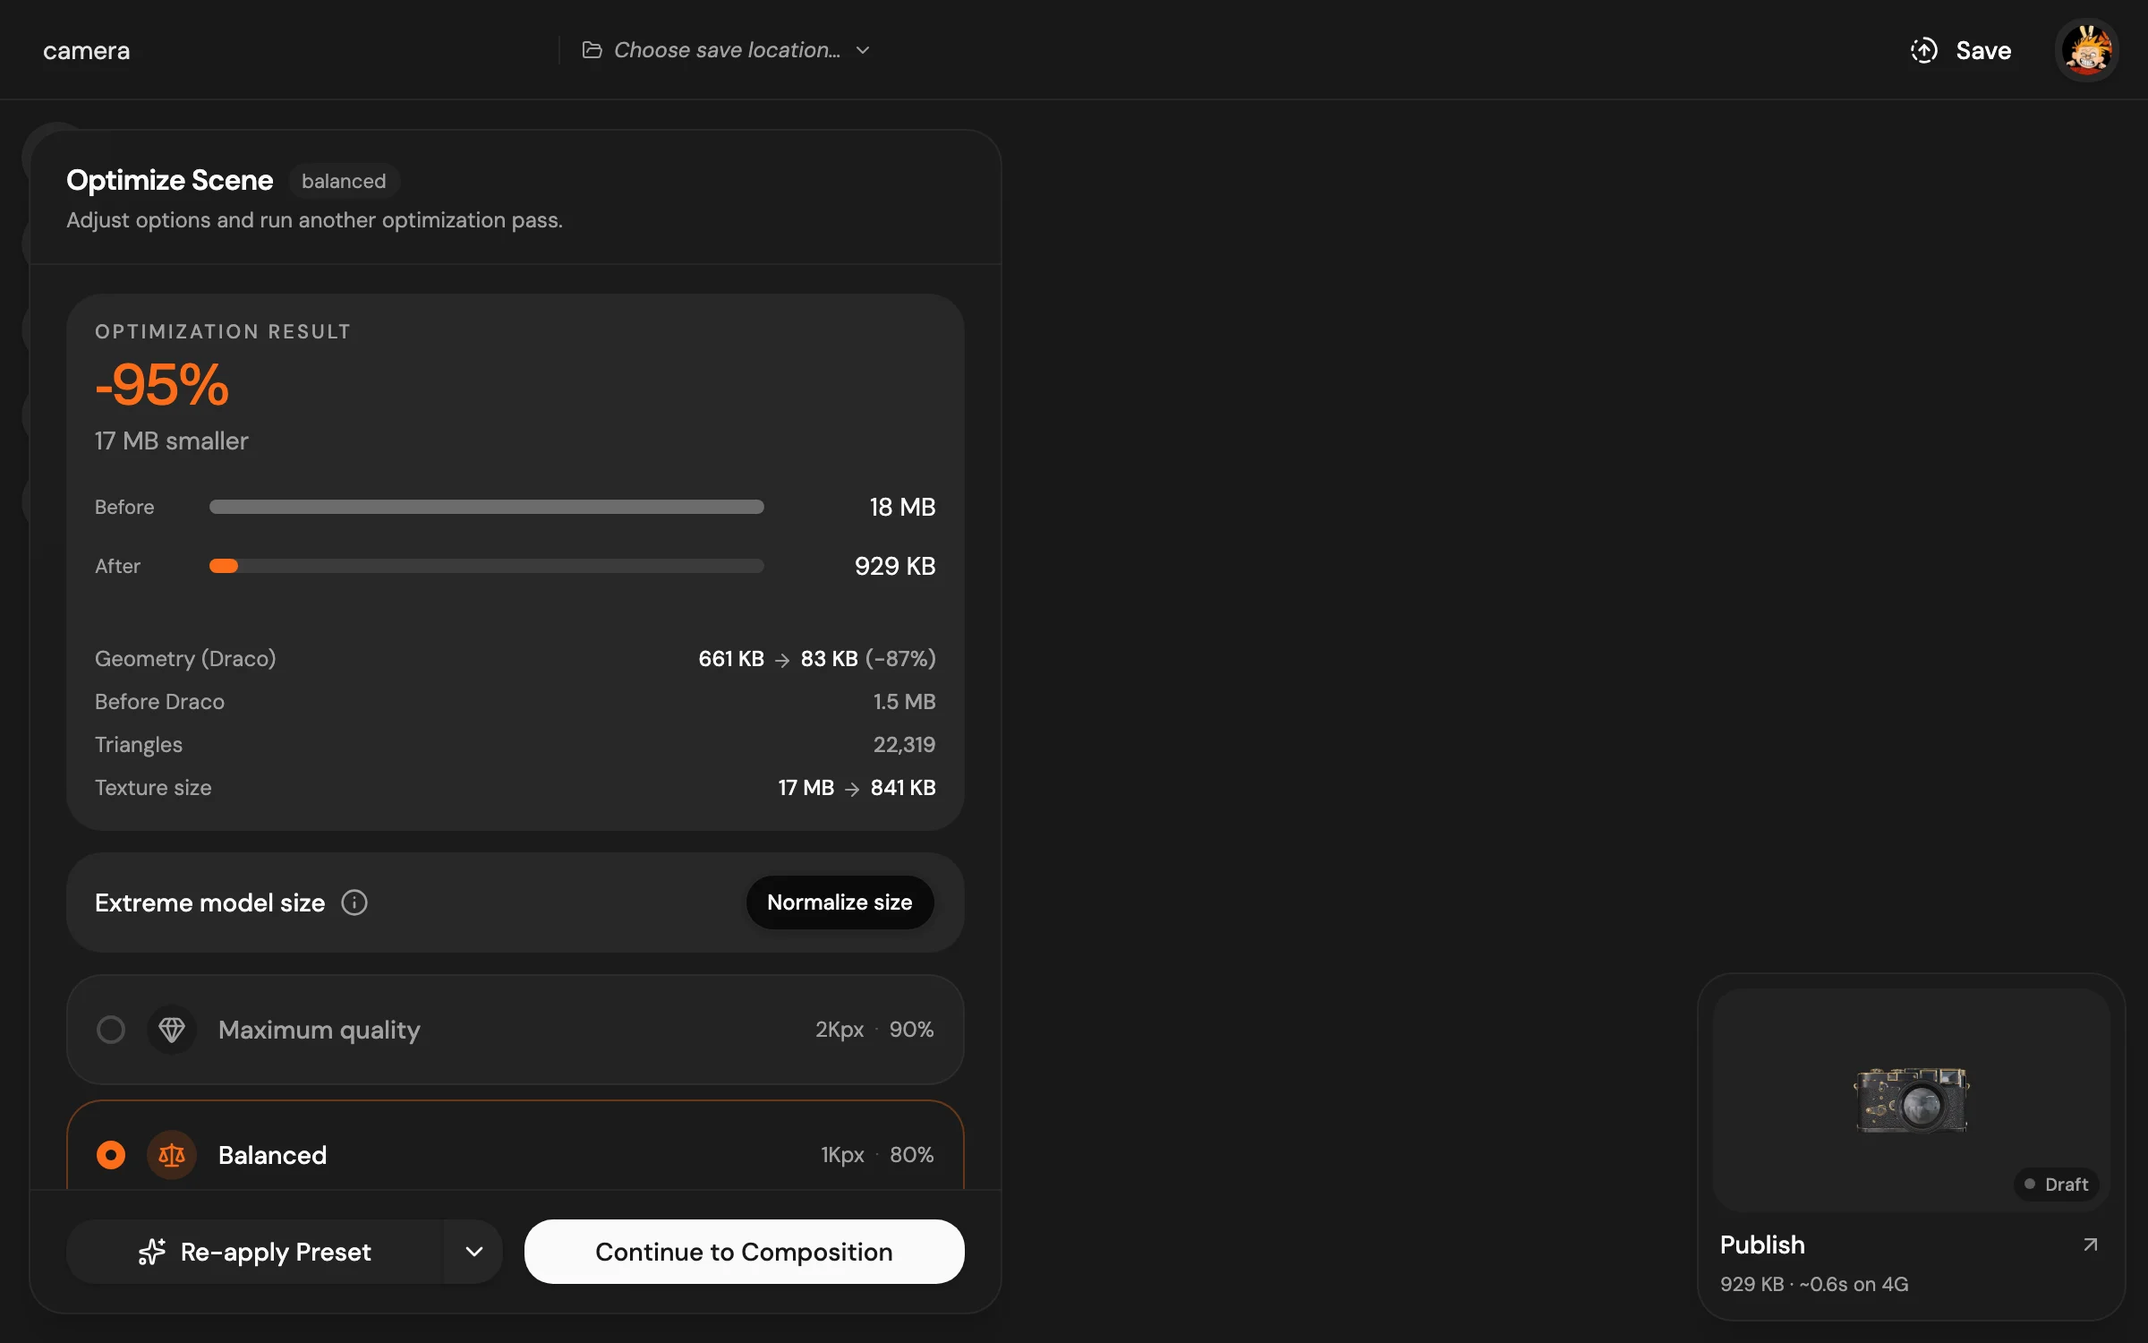
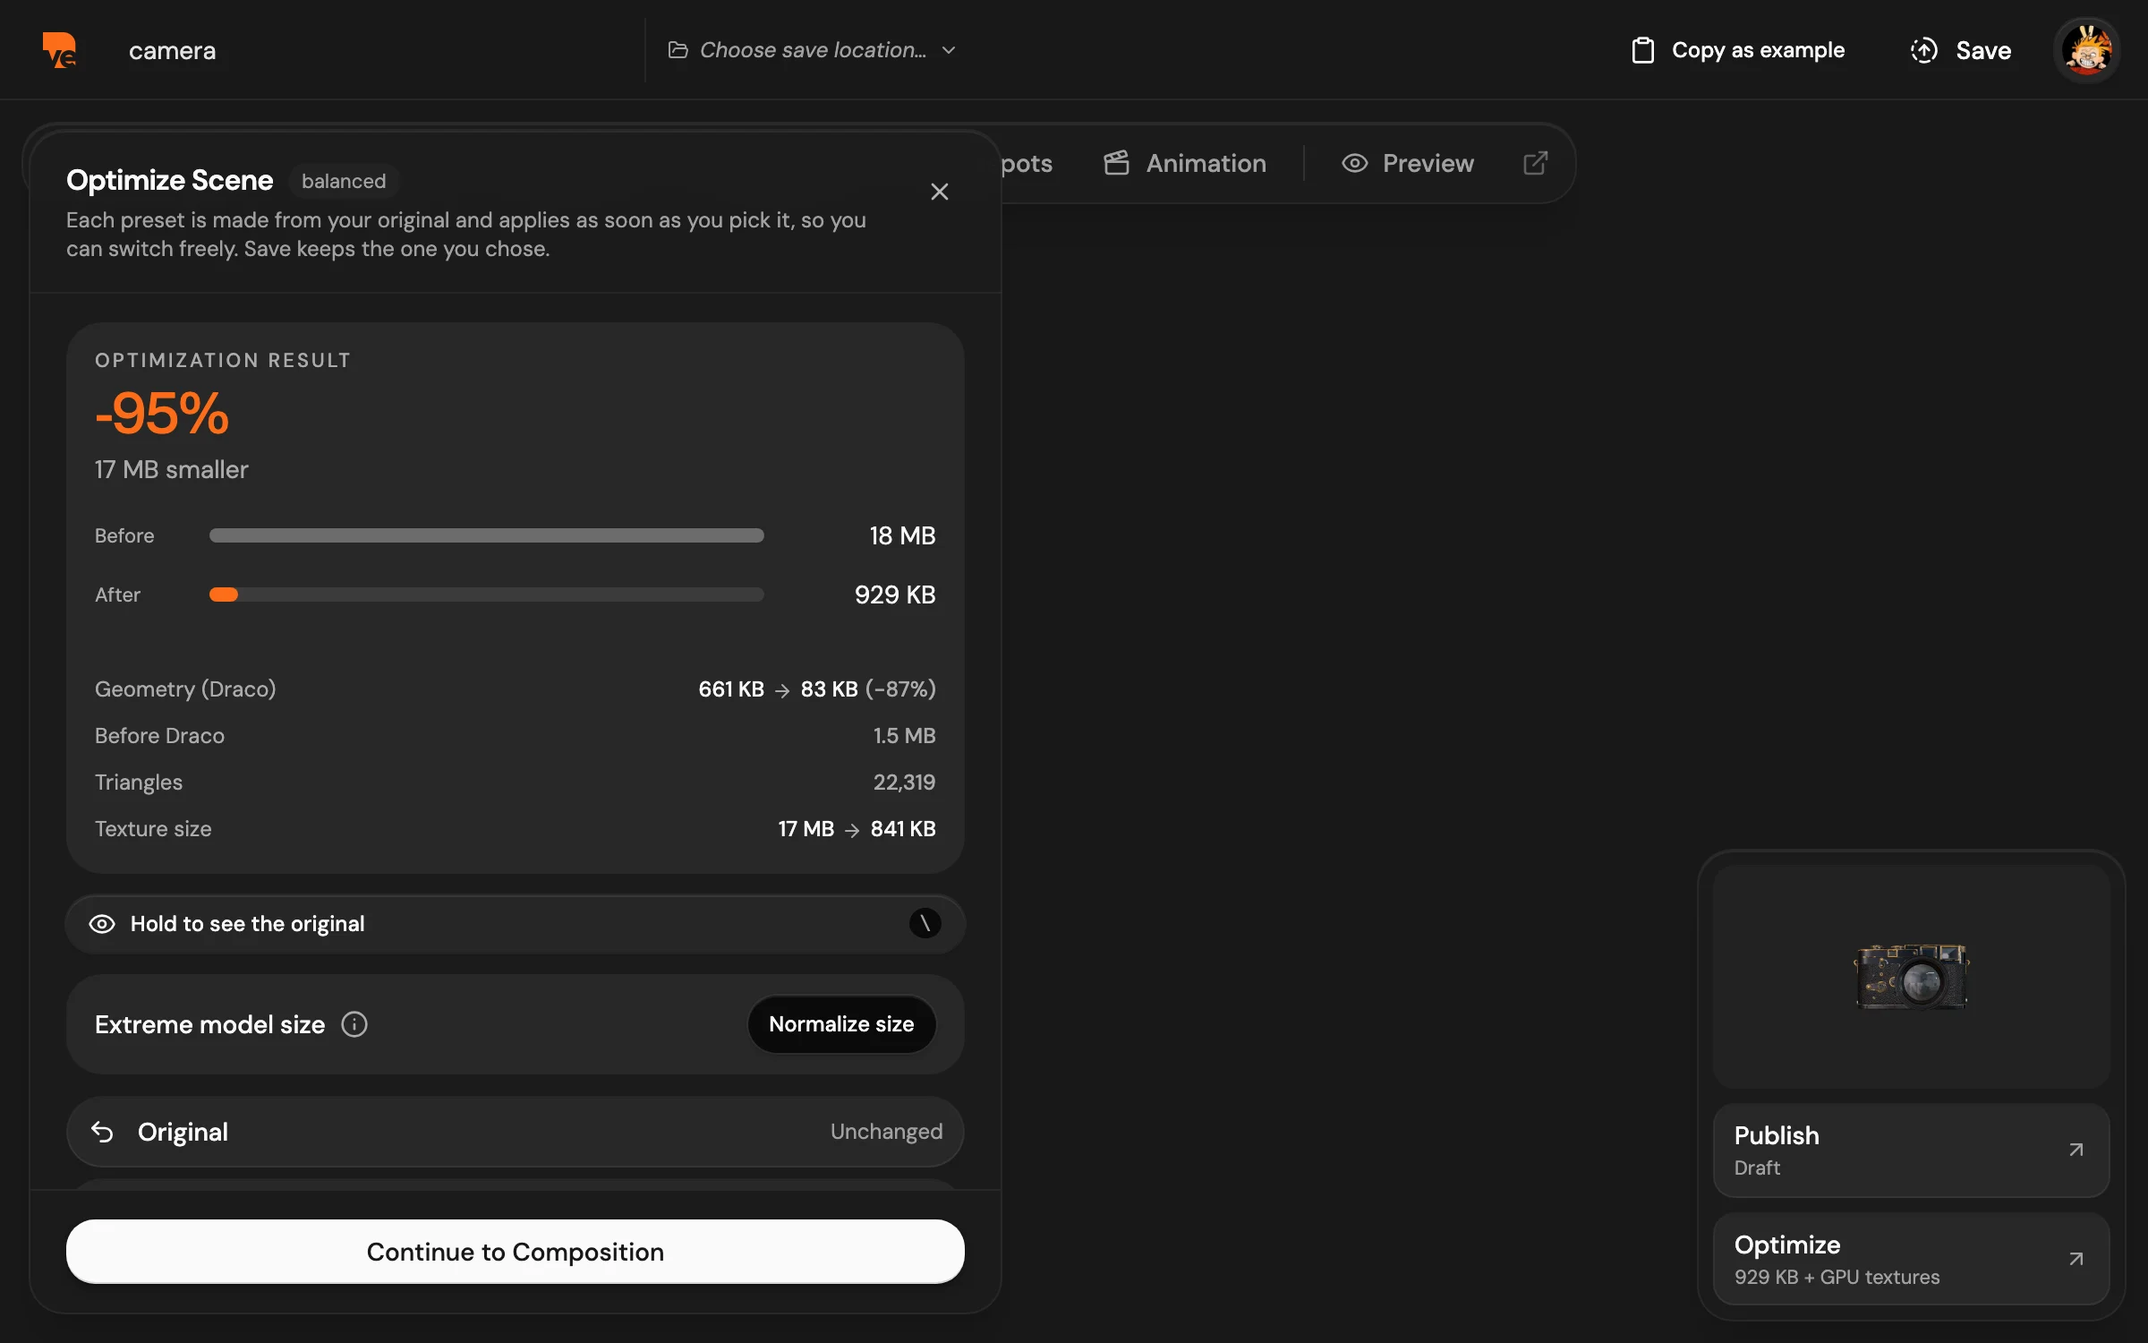
feat(ui): put the nav and the product window's steps on the surface ladder
The nav panel carried ds-overlay with shadow-lg beside it, and a utility
replaces the material, so the panel showed no material. Its links and the
drawer's rows hovered with bg-accent, values the ladder does not own. The
ladder had no rung for a row that is transparent until pointed at, so each
call site made one up.

- ds-ghost-interactive: no plate at rest; hovered, focused, current or
  expanded, it stands up as a small plate one step above what it sits on.
  Nav links, panel links and drawer rows use it.
- The scrolled bar is a raised plate; its shadow replaces the divider.
- The product window's step tiles are plates: inactive raised and
  interactive, the chosen one overlay. The plate sits on a wrapper because
  TabsTrigger forces its active fill with !important.
- The product heading drops its underline.
- The embed sketch's body is one bounded row, so the product column no
  longer pushes the gallery's thumbnails out of the 16:10 frame.
- Prepare shots recaptured after the material landed; the capture script
  picks the Balanced preset, since the drawer opens on Original now.

diff --git a/apps/vectreal-platform/app/components/home/product-window.tsx b/apps/vectreal-platform/app/components/home/product-window.tsx
@@ -177,18 +177,7 @@ export const ProductWindow = () => {
 		<Tabs value={view} onValueChange={choose} className="gap-12">
 			<div className="max-w-3xl">
 				<h2 id="product-heading" className="text-headline" data-reveal>
-					{COPY.heading.map((part) =>
-						typeof part === 'string' ? (
-							part
-						) : (
-							<span
-								key={part.underline}
-								className="decoration-orange underline decoration-2 underline-offset-[0.15em]"
-							>
-								{part.underline}
-							</span>
-						)
-					)}
+					{COPY.heading}
 				</h2>
 			</div>
 
@@ -214,38 +203,50 @@ export const ProductWindow = () => {
 						className="grid h-auto w-full grid-cols-3 items-stretch gap-2 bg-transparent p-0 md:gap-3 lg:col-span-2"
 					>
 						{VIEW_ORDER.map((one, index) => (
-							<TabsTrigger
+							/*
+							  The plate is the trigger's parent because the shared trigger
+							  forces its own active fill (`!`), which would beat a ladder
+							  class on the trigger itself. Each step is a plate in the
+							  window, and the chosen one stands a rung above the others.
+							*/
+							<div
 								key={one}
-								value={one}
+								role="presentation"
 								className={cn(
-									/*
+									'flex rounded-lg',
+									one === view ? 'ds-overlay' : 'ds-raised-interactive'
+								)}
+							>
+								<TabsTrigger
+									value={one}
+									className={cn(
+										/*
 									  A tile in the window, rounded on every corner; its rule runs
 									  straight along the top edge and the tile's own overflow cuts
 									  it off at the corners rather than bending it round them. The
-									  shared trigger's pill states are forced (`!`), so the active
-									  tile's step up the ladder is forced the same way; the rule
-									  lives in the module.
+									  rule lives in the module.
 									*/
-									'text-muted-foreground hover:text-foreground data-[state=active]:text-foreground h-auto flex-col items-start justify-start gap-2 overflow-hidden rounded-lg border-0 px-2 pt-4 pb-3 text-left whitespace-normal shadow-none transition-colors hover:bg-[color-mix(in_oklch,var(--foreground)_8%,var(--background))] data-[state=active]:bg-[color-mix(in_oklch,var(--foreground)_8%,var(--background))]! data-[state=active]:shadow-none md:px-4 md:pt-5 md:pb-4 dark:data-[state=active]:border-transparent',
-									styles.step
-								)}
-							>
-								{/* Number over label on a phone: three tiles across leave no room for both on one line. */}
-								<span className="flex flex-col gap-1 md:flex-row md:items-baseline md:gap-3">
-									<span className="text-eyebrow text-orange-ink tabular-nums">
-										{String(index + 1).padStart(2, '0')}
+										'text-muted-foreground hover:text-foreground data-[state=active]:text-foreground h-auto flex-col items-start justify-start gap-2 overflow-hidden rounded-lg border-0 px-2 pt-4 pb-3 text-left whitespace-normal shadow-none transition-colors data-[state=active]:bg-transparent! data-[state=active]:shadow-none md:px-4 md:pt-5 md:pb-4 dark:data-[state=active]:border-transparent',
+										styles.step
+									)}
+								>
+									{/* Number over label on a phone: three tiles across leave no room for both on one line. */}
+									<span className="flex flex-col gap-1 md:flex-row md:items-baseline md:gap-3">
+										<span className="text-eyebrow text-orange-ink tabular-nums">
+											{String(index + 1).padStart(2, '0')}
+										</span>
+										<span className="text-h3">{COPY.views[one].label}</span>
 									</span>
-									<span className="text-h3">{COPY.views[one].label}</span>
-								</span>
-								<span className="text-body-sm text-muted-foreground hidden md:block">
-									{COPY.views[one].summary}
-								</span>
-								<span
-									className={styles.fill}
-									aria-hidden="true"
-									onAnimationEnd={advance}
-								/>
-							</TabsTrigger>
+									<span className="text-body-sm text-muted-foreground hidden md:block">
+										{COPY.views[one].summary}
+									</span>
+									<span
+										className={styles.fill}
+										aria-hidden="true"
+										onAnimationEnd={advance}
+									/>
+								</TabsTrigger>
+							</div>
 						))}
 					</TabsList>
 

diff --git a/apps/vectreal-platform/app/components/navigation/nav-panels.tsx b/apps/vectreal-platform/app/components/navigation/nav-panels.tsx
@@ -154,7 +154,7 @@ export function NavPanels({
 							}}
 							onFocus={() => setOpen(null)}
 							className={cn(
-								'rounded-xl px-3 py-1.5 text-sm font-medium transition-colors',
+								'ds-ghost-interactive rounded-xl px-3 py-1.5 text-sm font-medium',
 								isActive
 									? 'text-foreground'
 									: 'text-muted-foreground hover:text-foreground'
@@ -197,7 +197,7 @@ export function NavPanels({
 								hover(section.label, open ? 0 : HOVER_OPEN_MS)
 							}}
 							className={cn(
-								'inline-flex items-center gap-1 rounded-xl px-3 py-1.5 text-sm font-medium transition-colors',
+								'ds-ghost-interactive inline-flex items-center gap-1 rounded-xl px-3 py-1.5 text-sm font-medium',
 								isOpen || isCurrent
 									? 'text-foreground'
 									: 'text-muted-foreground hover:text-foreground'
@@ -263,7 +263,7 @@ function NavPanel({
 					aria-label={section.label}
 					onPointerEnter={onPointerEnter}
 					className={cn(
-						'ds-overlay pointer-events-auto grid gap-1 rounded-2xl p-2 shadow-lg',
+						'ds-overlay pointer-events-auto grid gap-1 rounded-2xl p-2',
 						section.links.length > 3 ? 'grid-cols-4' : 'grid-cols-3'
 					)}
 				>
@@ -295,7 +295,7 @@ function PanelLink({
 		if (event.button === 1) onFollow(true)
 	}
 	const className =
-		'hover:bg-accent focus-visible:bg-accent flex h-full flex-col gap-1 rounded-xl p-4 transition-colors focus-visible:outline-none'
+		'ds-ghost-interactive flex h-full flex-col gap-1 rounded-xl p-4 focus-visible:outline-none'
 	const content = (
 		<>
 			<span className="text-foreground text-sm font-medium">{link.label}</span>

diff --git a/shared/components/src/styles/globals.css b/shared/components/src/styles/globals.css
@@ -758,6 +758,33 @@
 			0 24px 56px -22px var(--material-shadow-far);
 	}
 	/*
+	  A row with no plate until it is pointed at, focused or current: nav links,
+	  panel links, drawer rows. It then stands up as a small plate, one step
+	  above whatever it sits on, which is why the fill is a tint rather than a
+	  step mixed against the page: the same row sits on the bar, inside an
+	  overlay panel and on a sheet. The states live here because a Tailwind
+	  variant cannot apply a `ds-*` class, and these are the states a row
+	  reports: `aria-current` for the page you are on, `aria-expanded` for the
+	  section whose panel is open.
+	*/
+	.ds-ghost-interactive {
+		background-color: transparent;
+		transition:
+			color var(--duration-fast) var(--ease-out),
+			background-color var(--duration-fast) var(--ease-out),
+			box-shadow var(--duration-base) var(--ease-out);
+	}
+	.ds-ghost-interactive:hover,
+	.ds-ghost-interactive:focus-visible,
+	.ds-ghost-interactive[aria-current='page'],
+	.ds-ghost-interactive[aria-expanded='true'] {
+		background-color: color-mix(in oklch, var(--foreground) 4%, transparent);
+		box-shadow:
+			inset 0 1px 0 var(--material-bevel),
+			inset 0 0 0 1px var(--material-rim),
+			0 1px 2px var(--material-shadow);
+	}
+	/*
 	  The resting surface of a control (the Slider track, a Toggle).
 	  A tint over whatever the control sits on, for the reason `ds-field` is:
 	  controls sit on the page, on dialogs and on publisher shell panels, and a

diff --git a/apps/vectreal-platform/app/components/navigation/mobile-nav.tsx b/apps/vectreal-platform/app/components/navigation/mobile-nav.tsx
@@ -48,10 +48,10 @@ const DrawerLink = ({
 	pathname: string
 }) => {
 	const className = cn(
-		'block rounded-xl px-3 py-2.5 text-sm font-medium transition-colors',
+		'ds-ghost-interactive block rounded-xl px-3 py-2.5 text-sm font-medium',
 		!link.external && isNavItemActive(link, pathname)
-			? 'bg-accent text-foreground'
-			: 'text-muted-foreground hover:bg-accent hover:text-foreground'
+			? 'text-foreground'
+			: 'text-muted-foreground hover:text-foreground'
 	)
 	return link.external ? (
 		<a href={link.to} target="_blank" rel="noreferrer" className={className}>
@@ -134,9 +134,9 @@ function MobileNav({
 			<nav
 				data-scrolled={scrolled || undefined}
 				className={cn(
-					'z-nav fixed top-0 right-0 left-0 items-center justify-between p-2 transition-colors',
+					'z-nav fixed top-0 right-0 left-0 items-center justify-between p-2 transition-[background-color,box-shadow]',
 					SETTLE,
-					scrolled ? 'bg-background' : 'bg-transparent',
+					scrolled ? 'ds-raised' : 'bg-transparent',
 					className
 				)}
 				aria-label="Main navigation"
@@ -176,14 +176,6 @@ function MobileNav({
 						</Button>
 					</div>
 				</div>
-				<div
-					aria-hidden="true"
-					className={cn(
-						'ds-divider absolute inset-x-0 bottom-0 h-px transition-opacity',
-						SETTLE,
-						scrolled ? 'opacity-100' : 'opacity-0'
-					)}
-				/>
 			</nav>
 
 			<Sheet open={drawerOpen} onOpenChange={setDrawerOpen}>

diff --git a/apps/vectreal-platform/app/components/navigation/desktop-nav.tsx b/apps/vectreal-platform/app/components/navigation/desktop-nav.tsx
@@ -50,9 +50,10 @@ function DesktopNav({
 		<nav
 			data-scrolled={scrolled || undefined}
 			className={cn(
-				'z-nav fixed top-0 right-0 left-0 transition-colors',
+				'z-nav fixed top-0 right-0 left-0 transition-[background-color,box-shadow]',
 				SETTLE,
-				scrolled ? 'bg-background' : 'bg-transparent',
+				// Scrolled, the bar is a plate the page passes under: its material's shadow is the edge.
+				scrolled ? 'ds-raised' : 'bg-transparent',
 				className
 			)}
 			aria-label="Main navigation"
@@ -124,14 +125,6 @@ function DesktopNav({
 					</div>
 				</div>
 			</div>
-			<div
-				aria-hidden="true"
-				className={cn(
-					'ds-divider absolute inset-x-0 bottom-0 h-px transition-opacity',
-					SETTLE,
-					scrolled ? 'opacity-100' : 'opacity-0'
-				)}
-			/>
 		</nav>
 	)
 }

diff --git a/apps/vectreal-platform/scripts/capture-home-product-shots.ts b/apps/vectreal-platform/scripts/capture-home-product-shots.ts
@@ -196,9 +196,10 @@ async function capturePrepare(context: BrowserContext, theme: string) {
 	// does to it. The camera the page puts in this viewport is the Balanced
 	// result, so the drawer shows the preset applied to this very file. The
 	// size line on the publish card opens the drawer on its own, leaving the
-	// rest of the viewport free for the stage.
+	// rest of the viewport free for the stage. The drawer opens on Original;
+	// choosing a preset runs it.
 	await page.getByRole('button', { name: /MB · / }).click()
-	await page.getByRole('button', { name: 'Apply Optimizations' }).click()
+	await page.getByRole('button', { name: /^Balanced/ }).click()
 	await page
 		.getByText('Optimization result', { exact: false })
 		.waitFor({ timeout: 180_000 })

diff --git a/apps/vectreal-platform/app/constants/product-copy.ts b/apps/vectreal-platform/app/constants/product-copy.ts
@@ -409,15 +409,10 @@ export const HOME_PAGE_COPY = {
 	},
 	product: {
 		/**
-		  In parts: the `underline` one is drawn under, the place the three steps
-		  end. The steps themselves are the tabs below it, so the heading names
-		  where they go rather than listing them a second time.
+		  The steps themselves are the tabs below it, so the heading names where
+		  they go rather than listing them a second time.
 		*/
-		heading: [
-			'From your file to ',
-			{ underline: 'your product page' },
-			', in three steps.'
-		],
+		heading: 'From your file to your product page, in three steps.',
 		/** The chain's accessible name: the heading is a sentence, this names the control. */
 		stepsLabel: 'The three steps',
 		views: {

diff --git a/apps/vectreal-platform/app/components/home/product-page-sketch.tsx b/apps/vectreal-platform/app/components/home/product-page-sketch.tsx
@@ -99,9 +99,10 @@ export const ProductPageSketch = ({
 			</div>
 		)}
 
+		{/* One bounded row: an auto row grows to the product column's full height and pushes the gallery's foot out of the 16:10 frame. */}
 		<div
 			className={cn(
-				'grid min-h-0 flex-1',
+				'grid min-h-0 flex-1 grid-rows-[minmax(0,1fr)]',
 				compact ? 'grid-cols-[3fr_2fr] gap-3' : 'gap-6 sm:grid-cols-[3fr_2fr]'
 			)}
 		>

diff --git a/apps/vectreal-platform/tests/eslint-house-rules.spec.ts b/apps/vectreal-platform/tests/eslint-house-rules.spec.ts
@@ -294,7 +294,7 @@ describe('design-system classes reject a variant', () => {
 		*/
 		expect(RUNGS).toContain('text-h4')
 		expect(RUNGS).toHaveLength(11)
-		expect(SURFACES).toHaveLength(13)
+		expect(SURFACES).toHaveLength(14)
 	})
 
 	it.each([...RUNGS, ...SURFACES])('rejects hover:%s', async (className) => {

diff --git a/.agents/skills/vectreal-brand-ux-design/references/elevation.md b/.agents/skills/vectreal-brand-ux-design/references/elevation.md
@@ -30,6 +30,13 @@ the material makes it read as a plate in space.
   step. Use these rather than pairing a `ds-*` class with a hand-written hover
   background: call sites had drifted to 6%, 8%, 12% and 14%, so equivalent rows
   hovered to different values in the same view.
+- `ds-ghost-interactive` — a row with no plate until it is pointed at, focused,
+  or current (`aria-current="page"`, `aria-expanded="true"`): nav links, nav
+  panel links, drawer rows. It then stands up as a small plate one step above
+  whatever it sits on. Its fill is a tint, not a step, because the same row
+  sits on the nav bar, in an overlay panel and on a sheet. The states are in
+  the rung itself because a variant cannot apply a `ds-*` class; a row that
+  is current for another reason is not yet covered.
 
 The ladder self-corrects when it nests, so a `Card` dropped onto a raised panel
 still has an edge. Same-class nesting only, and the steps are:
@@ -81,6 +88,13 @@ layers, read from the `--material-*` colours in `theme.css`:
   disabled mid-action, and a tile that lost or gained a shadow on disabling
   would read as hovered. A call site with its own `transition-[...]` utility
   lists `box-shadow` in it, or the lift snaps while the fill eases.
+- `ds-ghost-interactive` has no material at rest and takes the raised edge
+  (bevel, rim, a 1px shadow) when it stands up: small enough for a nav row,
+  without the far shadow a card throws.
+- A shared component that forces its own fill with `!` (`TabsTrigger`'s
+  active state) beats any ladder class on the same element. Put the plate on
+  a parent and let the trigger fill it transparently, as the home page's
+  product window does with its step tiles.
 - `ds-bevel` is a filled action's material (`Button`'s default, brand and
   destructive variants): a white bevel and a dark base, fixed values because
   the fill underneath is the same in both schemes.
@@ -143,6 +157,10 @@ present  shared/components/src/styles/globals.css                              .
 present  shared/components/src/ui/button.tsx                                   ds-bevel
 present  shared/components/src/styles/globals.css                              .ds-raised-interactive
 present  shared/components/src/styles/globals.css                              .ds-overlay-interactive
+present  shared/components/src/styles/globals.css                              .ds-ghost-interactive
+present  apps/vectreal-platform/app/components/navigation/nav-panels.tsx       ds-ghost-interactive
+absent   apps/vectreal-platform/app/components/navigation/nav-panels.tsx       hover:bg-accent
+absent   apps/vectreal-platform/app/components/navigation/mobile-nav.tsx       bg-accent
 present  shared/components/src/styles/globals.css                              .ds-divider
 present  shared/components/src/styles/globals.css                              .ds-sunken
 present  shared/components/src/styles/globals.css                              .ds-field
